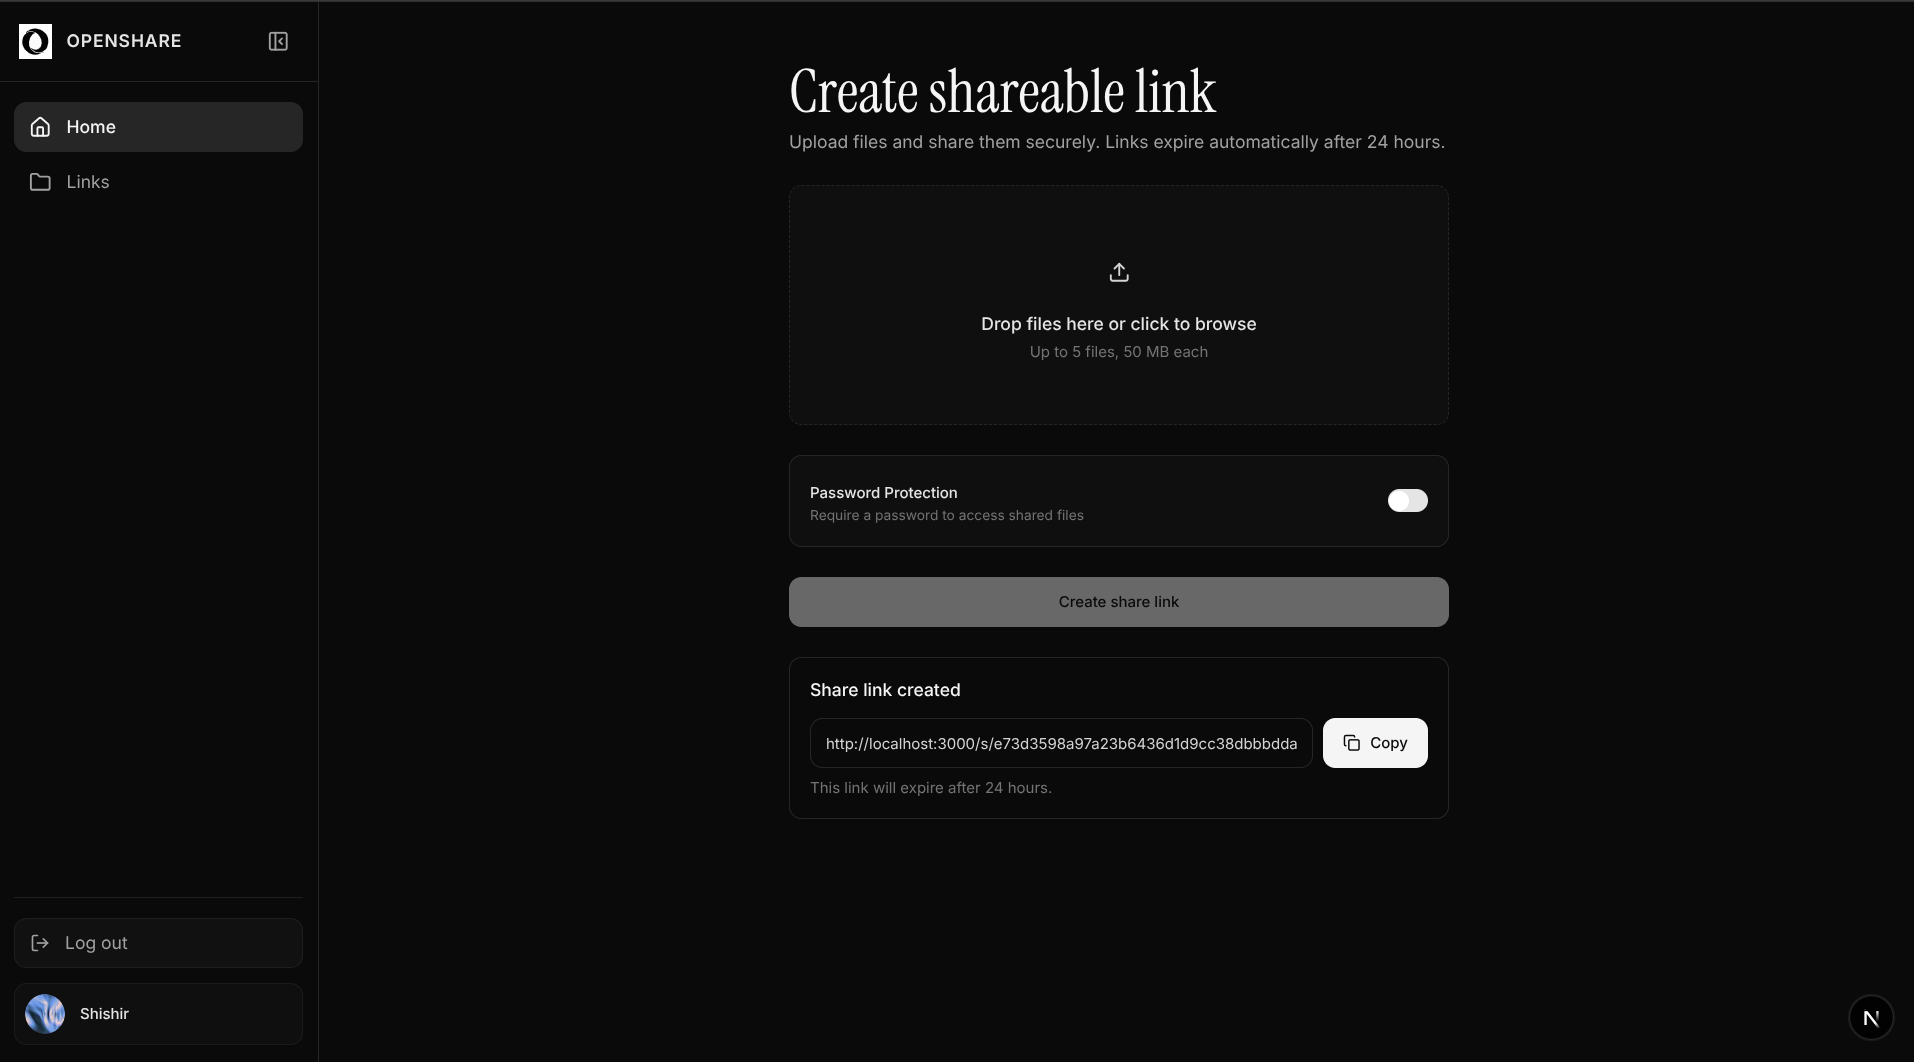
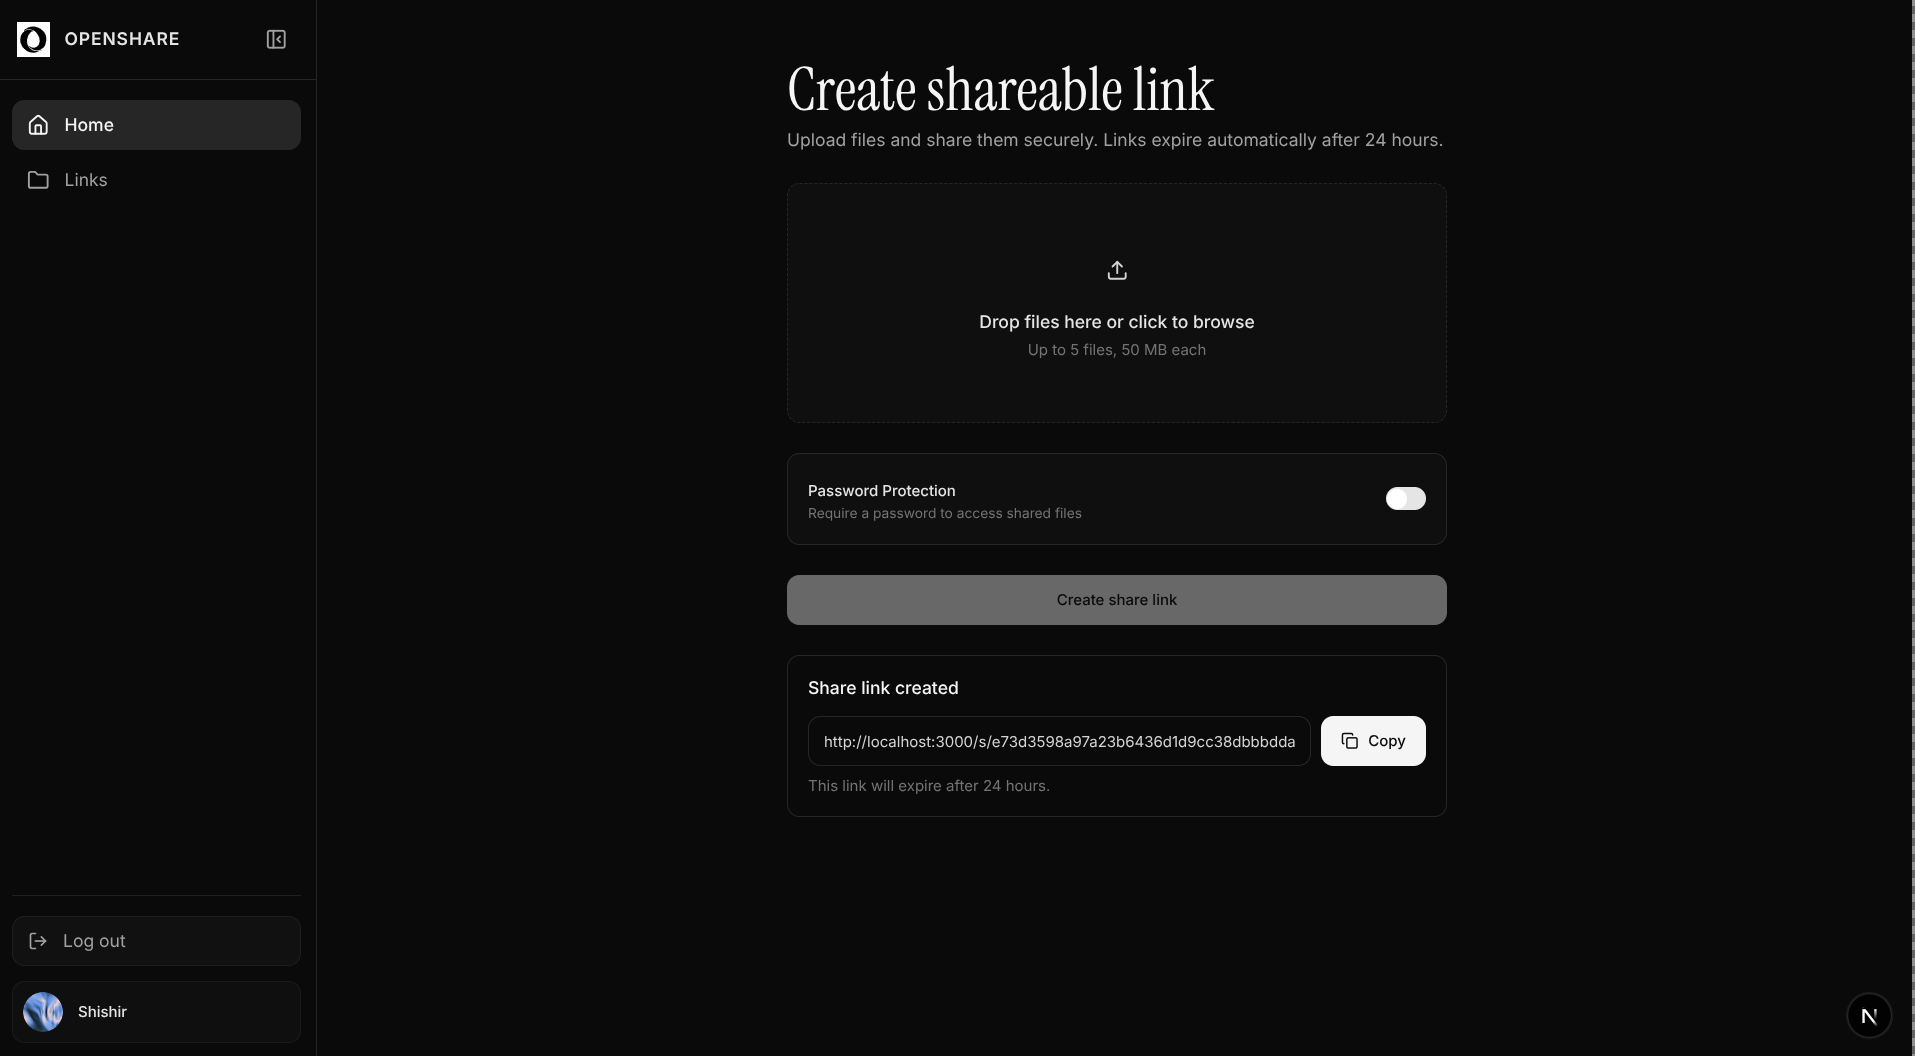
ADD: landing page ui change

diff --git a/components/features.tsx b/components/features.tsx
@@ -144,33 +144,6 @@ export default function Features() {
               </p>
             </div>
           </div>
-
-          <div className="group relative flex flex-col justify-between gap-8 overflow-hidden rounded-2xl border border-zinc-800 bg-zinc-900/40 p-8 md:col-span-2 lg:col-span-12 lg:flex-row lg:items-center">
-            <div className="max-w-lg">
-              <div className="inline-flex h-11 w-11 items-center justify-center rounded-xl border border-zinc-800 bg-zinc-900 text-white">
-                <Code className="h-5 w-5" />
-              </div>
-              <h3
-                className={`${instrumentSerif.className} mt-6 text-2xl leading-tight lg:text-3xl`}
-              >
-                Open source, end to end
-              </h3>
-              <p className="mt-2 text-sm leading-6 text-zinc-400">
-                Built in the open and free to self-host. Your files, your
-                server, your rules.
-              </p>
-            </div>
-
-            <Link
-              href="https://github.com/yshishir/openshare"
-              target="_blank"
-              rel="noopener noreferrer"
-              className="inline-flex items-center gap-2 rounded-xl border border-zinc-700 bg-zinc-900/80 px-4 py-3 font-mono text-xs text-zinc-300 transition-colors hover:border-zinc-600 hover:text-white"
-            >
-              <span className="h-1.5 w-1.5 rounded-full bg-emerald-400" />
-              github.com/yshishir/openshare
-            </Link>
-          </div>
         </div>
       </div>
     </section>

diff --git a/components/hero.tsx b/components/hero.tsx
@@ -38,7 +38,7 @@ export default function Hero({ isAuthenticated }: HeroProps) {
         <div className="overflow-hidden rounded-2xl border border-white/10 bg-zinc-900 p-1.5 shadow-2xl shadow-black/70">
           <Image
             src="/hero.png"
-            alt="OpenShare dashboard for creating secure file-sharing links"
+            alt="OpenShare"
             width={1914}
             height={1062}
             priority
